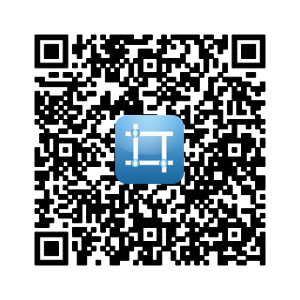
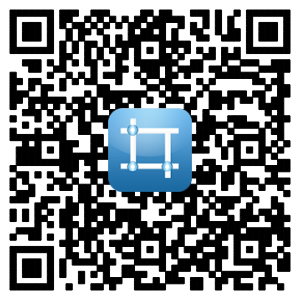
--hs --更换安捷通ios下载连接及二维码
git-svn-id: http://www.ichebao.net/svn/acb/branches/ajt@1850 fbfde4e3-4bc3-4d81-a63b-7b332075e0cf

diff --git a/apps/uweb/static/js/initialize_common.js b/apps/uweb/static/js/initialize_common.js
@@ -2210,7 +2210,9 @@ window.dlf.fn_fillNavItem = function(str_whoItem) {
 	var obj_navItemUl = null,
 		obj_navOffset = $('#'+str_whoItem).offset(),
 		str_navClassName = '',
-		n_offsetLeft = 0;
+		n_offsetLeft = 0,
+		b_topPanelSt = $('#top').is(':hidden'),
+		n_prolistTop = 157;
 	
 	dlf.fn_secondNavValid();
 	if ( str_whoItem == 'recordCount' ) {
@@ -2219,10 +2221,15 @@ window.dlf.fn_fillNavItem = function(str_whoItem) {
 	} else if ( str_whoItem == 'notifyManage' ) {
 		str_navClassName = 'j_notifyManageNavItem';
 		n_offsetLeft = obj_navOffset.left;
-	} else if ( str_whoItem == 'userProfileManage' ) {		
+	} else if ( str_whoItem == 'userProfileManage' ) {	
 		str_navClassName = 'j_userProfileManageNavItem';
-		n_offsetLeft = obj_navOffset.left;		
+		n_offsetLeft = obj_navOffset.left;	
 	}
+		
+	if ( b_topPanelSt ) {
+		n_prolistTop = 36;
+	}
+	$('.countUlIetm').css('top', n_prolistTop);	
 	
 	obj_navItemUl = $('.'+str_navClassName);
 	obj_navItemUl.css('left', n_offsetLeft).show(); // 二级单显示

diff --git a/apps/uweb/templates/ios.html b/apps/uweb/templates/ios.html
@@ -36,13 +36,7 @@
 								<label class="iosDownloadLabel">下载地址：</label>
 								<ul class="iosDownloadul">
 									<li>
-										<a href="https://itunes.apple.com/us/app/yi-dong-che-wei-shi/id587253267?ls=1&mt=8" target="_blank" title="苹果官方商店">苹果官方商店</a>
-									</li>
-									<li>
-										<a href="http://app.tongbu.com/587253267_yidongcheweishi.html" target="_blank" title="同步推">同步推</a>
-									</li>
-									<li>
-										<a href="http://www.25pp.com/ipad/soft/info_791011.html" target="_blank" title="PP助手">PP助手</a>
+										<a href="https://itunes.apple.com/us/app/an-jie-tong/id862276893?mt=8" target="_blank" title="苹果官方商店">苹果官方商店</a>
 									</li>
 								</ul>
 							</li>

diff --git a/apps/uweb/templates/download_anjietong.html b/apps/uweb/templates/download_anjietong.html
@@ -107,7 +107,7 @@
 							<li>
 								<ul class="iosDownloadul">
 									<li>
-										<a href="#" target="_blank" title="苹果官方商店" class="infoBtn btn_weixin">苹果官方商店</a>
+										<a href="https://itunes.apple.com/us/app/an-jie-tong/id862276893?mt=8" target="_blank" title="苹果官方商店" class="infoBtn btn_weixin">苹果官方商店</a>
 									</li>
 								</ul>
 							</li>
